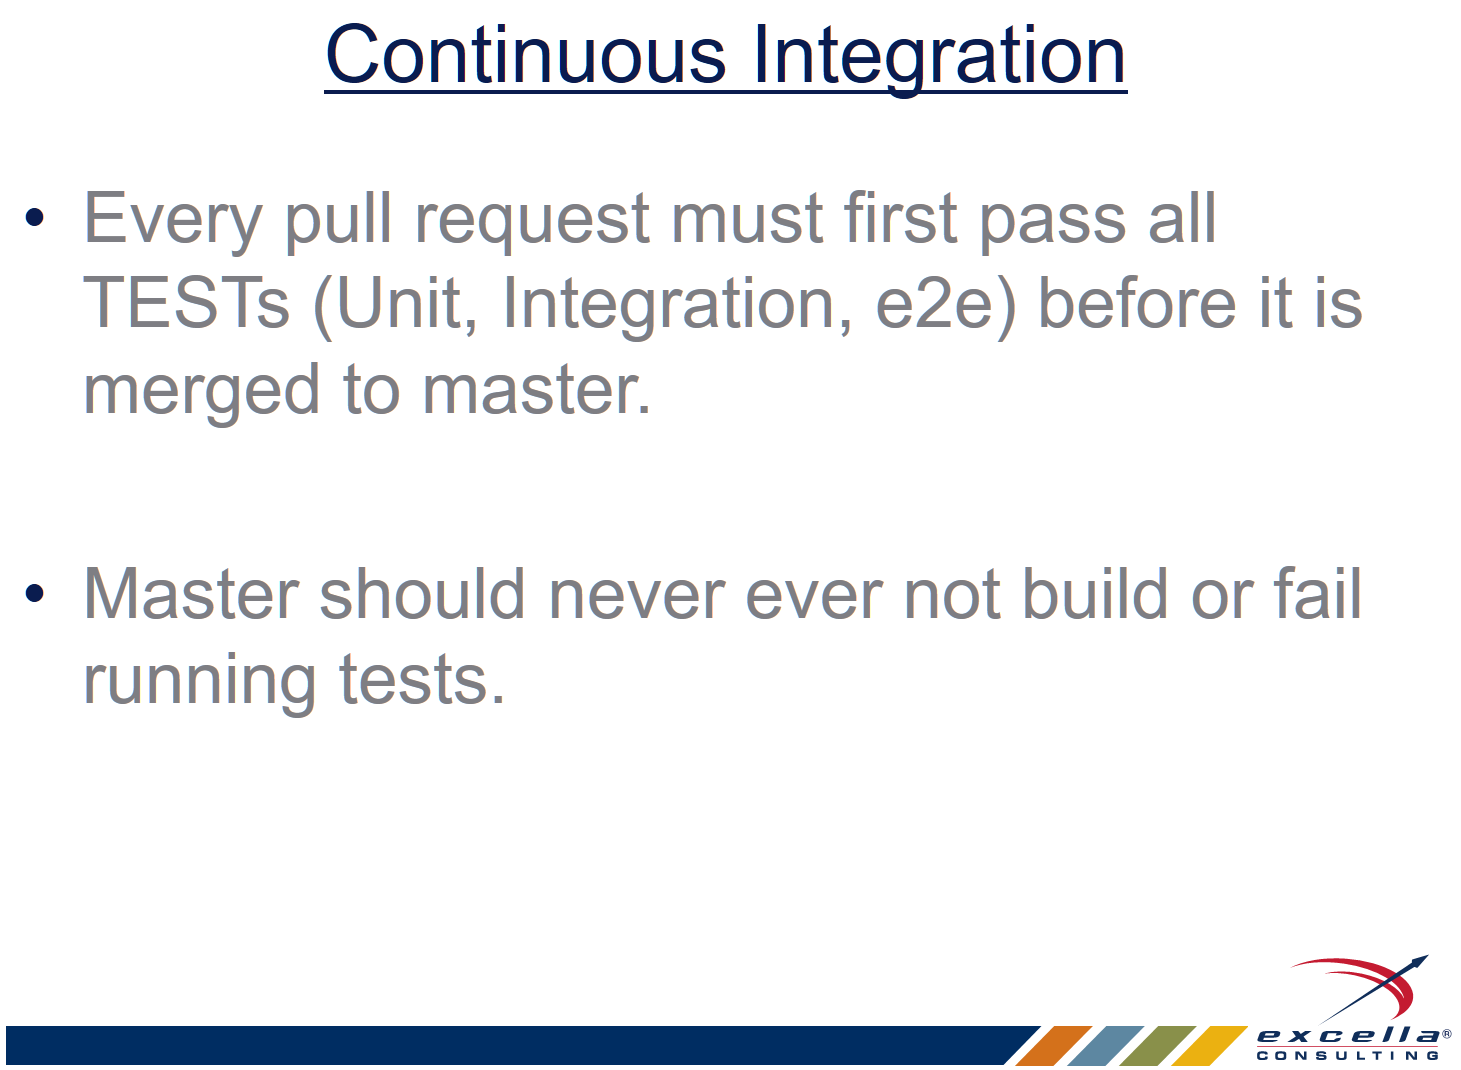
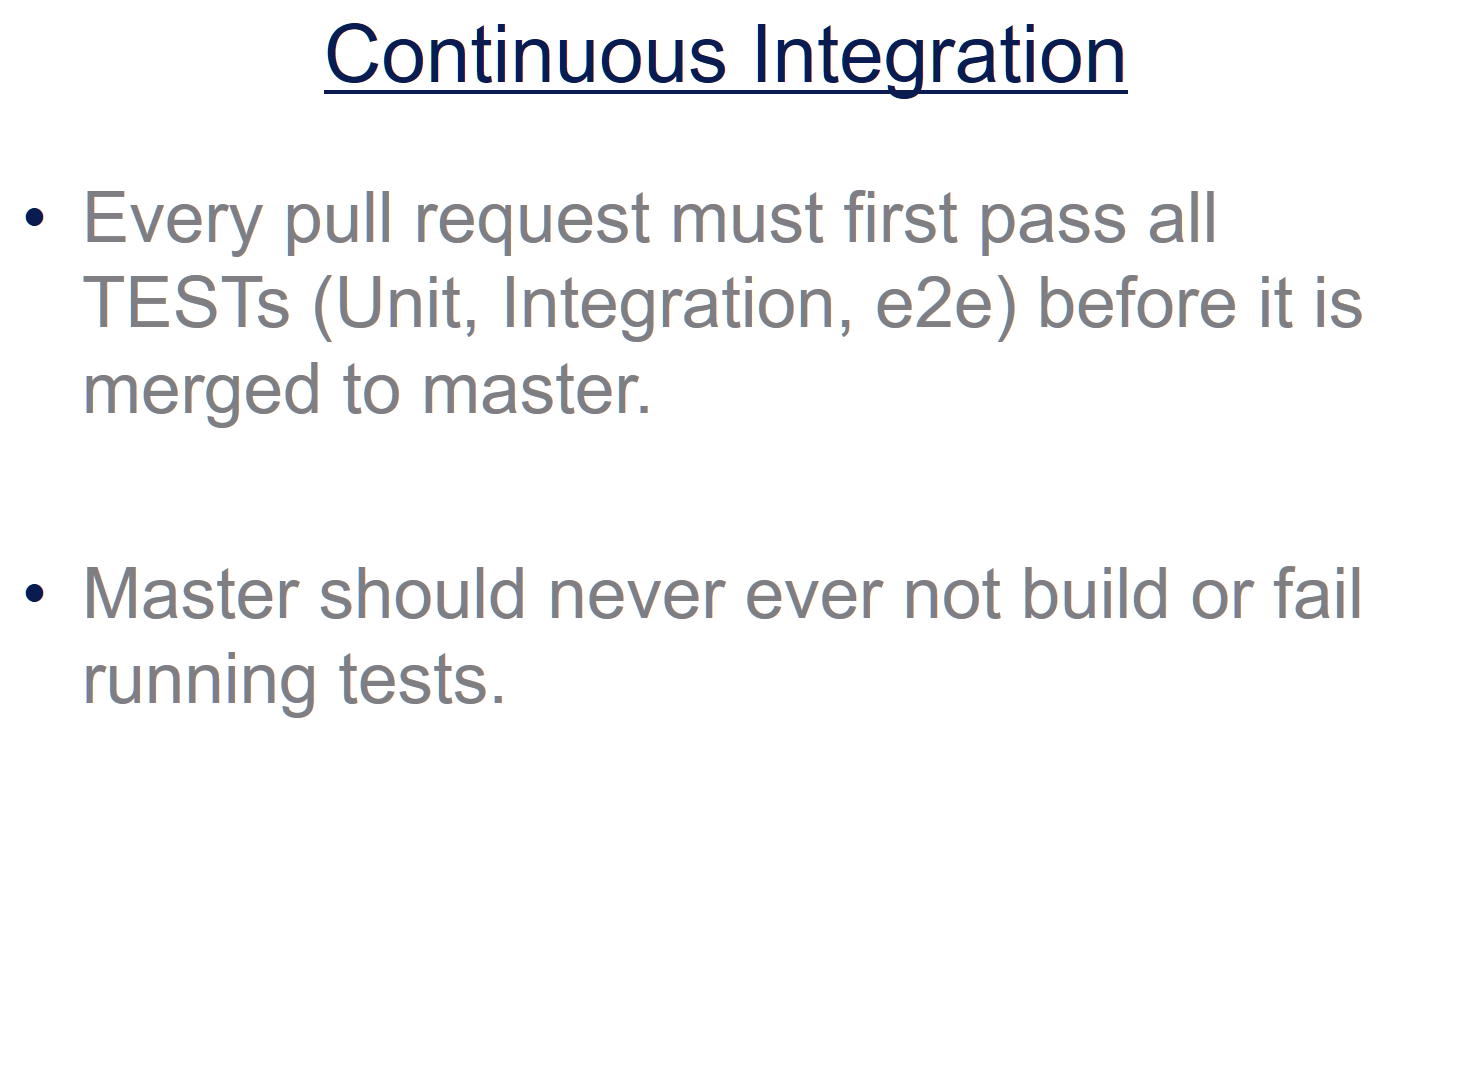
TDD-FailFast: Updated with new brand!

Changed region(s): [[0.0, 0.8944, 0.9856, 1.0]]

diff --git a/TDD-FailFast.html b/TDD-FailFast.html
@@ -20,6 +20,7 @@
 
 	<!-- About the Author -->
 	<section>
+			<img data-src="Images/Excella Horizontal red_black.png" style="margin-left: -150px; left: 0; right: 0; bottom: 0; float:left; position:fixed; top:650px; width:200px; background:lightgrey;border-radius:15px;" />
 		<div class="sl-block" data-block-type="text" style="cursor: pointer; height: auto; min-width: 30px; min-height: 30px; width: 800px; left: 100px; top: 45px;">
 			<div>
 				<h2>Fail Fast with TDD</h3>
@@ -81,29 +82,45 @@ class Author
 		
 	<!-- About Excella -->
 	<section class="stack">
-		<section>
-			<div class="sl-block" data-block-type="image">
-				<div class="sl-block-content" style="border-style: solid; border-width: 1px; border-radius: 8px;">
-					<img data-src="Images/Excella.png">
+			<section>
+				<img data-src="Images/Excella Horizontal red_black.png" style="margin-left: -150px; left: 0; right: 0; bottom: 0; float:left; position:fixed; top:650px; width:200px; background:lightgrey;border-radius:15px;" />
+				<div class="sl-block" data-block-type="image" style="background:grey; opacity:0.9; left: 100px;">
+					<div class="sl-block-content" style="border-style: solid; border-width: 1px; border-radius: 8px; width:775px; opacity:1;">
+						<img data-src="Images/Excella Extension horizontal red_black-01.png">
+					</div>
 				</div>
-			</div>
-			<div class="sl-block" data-block-type="image" style="top:400px;">
-				<div class="sl-block-content" style="border-style: solid; border-width: 1px; border-radius: 8px;">
-					<img data-src="Images/ExcellaBestPlaceToWork.png">
+				<div class="sl-block" data-block-type="image" style="top:400px; opacity:0.9; left: 100px;">
+					<div class="sl-block-content" style="border-style: solid; border-width: 1px; border-radius: 8px;">
+						<img data-src="Images/ExcellaBestPlaceToWork.png">
+					</div>
 				</div>
-			</div>
+			</section>
+			<section>
+				<img data-src="Images/Excella Horizontal red_black.png" style="margin-left: -150px; left: 0; right: 0; bottom: 0; float:left; position:fixed; top:650px; width:200px; background:lightgrey;border-radius:15px;" />
+				<div class="sl-block" data-block-type="image" style="top:100px; left: 80px; opacity:0.9;">
+					<div class="sl-block-content" style="border-style: solid; border-width: 1px; border-radius: 8px;">
+						<img data-src="Images/ExcellaWhatWeDo.png">
+					</div>
+				</div>
+			</section>
 		</section>
-		<section>
-			<div class="sl-block" data-block-type="image" style="top:100px;">
-				<div class="sl-block-content" style="border-style: solid; border-width: 1px; border-radius: 8px;">
-					<img data-src="Images/ExcellaWhatWeDo.png">
+
+		
+	<!-- Background -->
+	<section class="stack">
+			<section>
+				<img data-src="Images/Excella Horizontal red_black.png" style="margin-left: -150px; left: 0; right: 0; bottom: 0; float:left; position:fixed; top:650px; width:200px; background:lightgrey;border-radius:15px;" />
+				<div class="sl-block" data-block-type="image">
+					<div class="sl-block-content" style="border-style: solid; border-width: 1px; border-radius: 8px;">
+						<img data-src="Images/SLDC_Slide.png">
+					</div>
 				</div>
-			</div>
+			</section>
 		</section>
-	</section>
 
 	<!-- Anchor: The First step in solving a problem is knowing there is one -->
 	<section>
+		<img data-src="Images/Excella Horizontal red_black.png" style="margin-left: -150px; left: 0; right: 0; bottom: 0; float:left; position:fixed; top:650px; width:200px; background:lightgrey;border-radius:15px;" />
 		<div class="sl-block" data-block-type="text" style="top: 45px;">
 			<div class="sl-block-content" 
 			style="z-index: 11; line-height: 1.131; font-size: 124%; 
@@ -117,46 +134,38 @@ class Author
 			</div>
 
 		</div>
-		<div class="sl-block" data-block-type="text" style="left: 150px; top: 320px;">
+		<div class="sl-block" data-block-type="text" style="left: 250px; top: 320px;">
 				<div class="sl-block-content" style="font-size: 100%; border-style: solid; border-width: 1px; border-radius: 4px;" data-highlight-theme="obsidian">
 <pre class="javascript">
 <code>
-class MyList {
-  int array[5] = { 1, 2, 3, 4, 5 };
+ class Bird {
 
-  int getValueAtIndex(int indx) {
-	return array[indx];
-  }
+   string chirp() {
+     return "cheep cheep"; 
+   }
+
 }
 </code>
 </pre>
-</div></div>
-	</section>
-
-	<!-- Background -->
-	<section class="stack">
-		<section>
-			<div class="sl-block" data-block-type="image">
-				<div class="sl-block-content" style="border-style: solid; border-width: 1px; border-radius: 8px;">
-					<img data-src="Images/SLDC_Slide.png">
-				</div>
-			</div>
-		</section>
+		</div>
+	</div>
 	</section>
 	
 	<!-- TEST TEST & More TEST -->
 	<section class="stack">
 		<section>
+			<img data-src="Images/Excella Horizontal red_black.png" style="margin-left: -150px; left: 0; right: 0; bottom: 0; float:left; position:fixed; top:650px; width:200px; background:lightgrey;border-radius:15px;" />
 			<div class="sl-block" data-block-type="image">
-				<div class="sl-block-content" style="border-style: solid; border-width: 1px; border-radius: 8px;">
-					<img data-src="Images/TestTestsAndMoreTests.png">
+				<div class="sl-block-content" style="border-style: solid; border-width: 1px; border-radius: 8px; left: 25px;">
+					<img data-src="Images/TestTestsAndMoreTests.png" style="height: 625px; width: 900px;">
 				</div>
 			</div>
 		</section>
 		<section>
+			<img data-src="Images/Excella Horizontal red_black.png" style="margin-left: -150px; left: 0; right: 0; bottom: 0; float:left; position:fixed; top:650px; width:200px; background:lightgrey;border-radius:15px;" />
 			<div class="sl-block" data-block-type="image">
 				<div class="sl-block-content" style="border-style: solid; border-width: 1px; border-radius: 8px;">
-					<img data-src="Images/unit-tests.png">
+					<img data-src="Images/unit-tests.png" style="height: 625px; width: 1000px;">
 				</div>
 			</div>
 			<div class="sl-block" data-block-type="text" style="width: 570px; left: 380px; top: 5px;">
@@ -164,11 +173,9 @@ class MyList {
 	
 <pre class="javascript">
 <code>
-class MyList {
-  int array[5] = { 1, 2, 3, 4, 5 };
-
-  int getValueAtIndex(int indx) {
-    return array[indx];
+class Bird {
+  string chirp() {
+    return "cheep";
   }
 }
 
@@ -176,15 +183,15 @@ class MyList {
 </pre>
 <pre class="javascript">
 <code>
-public void getIndexFromMyList() {
+public void testChirp() {
   // Arrange
-  var myList = MyList();
+  var myBird = Bird();
   
   // Act
-  var result = myList.GetValueAtIndex(7);
+  var result = myBird.chirp();
 
   // Assert
-  assertEquals(7, result);
+  assertEquals("cheep cheep", result);
 }
 </code>
 </pre>
@@ -192,23 +199,18 @@ public void getIndexFromMyList() {
 			</div>
 		</section>
 		<section>
+			<img data-src="Images/Excella Horizontal red_black.png" style="margin-left: -150px; left: 0; right: 0; bottom: 0; float:left; position:fixed; top:650px; width:200px; background:lightgrey;border-radius:15px;" />
 			<div class="sl-block" data-block-type="image">
 				<div class="sl-block-content" style="border-style: solid; border-width: 1px; border-radius: 8px;">
-					<img data-src="Images/integration-tests.png">
+					<img data-src="Images/legacy-code.png" style="height: 625px; width: 1000px;">
 				</div>
 			</div>
 		</section>
 		<section>
+			<img data-src="Images/Excella Horizontal red_black.png" style="margin-left: -150px; left: 0; right: 0; bottom: 0; float:left; position:fixed; top:650px; width:200px; background:lightgrey;border-radius:15px;" />
 			<div class="sl-block" data-block-type="image">
 				<div class="sl-block-content" style="border-style: solid; border-width: 1px; border-radius: 8px;">
-					<img data-src="Images/legacy-code.png">
-				</div>
-			</div>
-		</section>
-		<section>
-			<div class="sl-block" data-block-type="image">
-				<div class="sl-block-content" style="border-style: solid; border-width: 1px; border-radius: 8px;">
-					<img data-src="Images/tdd-slide.png">
+					<img data-src="Images/tdd-slide.png" style="height: 625px; width: 1000px;">
 				</div>
 			</div>
 		</section>
@@ -217,6 +219,7 @@ public void getIndexFromMyList() {
 	<!-- Comic - Test vs non test -->
 	<section class="stack">
 		<section>
+			<img data-src="Images/Excella Horizontal red_black.png" style="margin-left: -150px; left: 0; right: 0; bottom: 0; float:left; position:fixed; top:650px; width:200px; background:lightgrey;border-radius:15px;" />
 			<div class="sl-block" data-block-type="image" style="width: 800px; height: 700px; left: 85px;">
 				<div class="sl-block-content" style="border-style: solid; border-width: 1px; border-radius: 8px;">
 					<img data-src="Images/tdd-vs-ftt-1.png">
@@ -224,21 +227,24 @@ public void getIndexFromMyList() {
 			</div>
 		</section>
 		<section>
-			<div class="sl-block" data-block-type="image">
+			<img data-src="Images/Excella Horizontal red_black.png" style="margin-left: -150px; left: 0; right: 0; bottom: 0; float:left; position:fixed; top:650px; width:200px; background:lightgrey;border-radius:15px;" />
+			<div class="sl-block" data-block-type="image" style="width: 800px; height: 700px; left: 85px;">
 				<div class="sl-block-content" style="border-style: solid; border-width: 1px; border-radius: 8px;">
 					<img data-src="Images/tdd-vs-ftt-2.png">
 				</div>
 			</div>
 		</section>
 		<section>
-			<div class="sl-block" data-block-type="image">
+			<img data-src="Images/Excella Horizontal red_black.png" style="margin-left: -150px; left: 0; right: 0; bottom: 0; float:left; position:fixed; top:650px; width:200px; background:lightgrey;border-radius:15px;" />
+			<div class="sl-block" data-block-type="image" style="width: 800px; height: 700px; left: 85px;">
 				<div class="sl-block-content" style="border-style: solid; border-width: 1px; border-radius: 8px;">
 					<img data-src="Images/tdd-vs-ftt-3.png">
 				</div>
 			</div>
 		</section>
 		<section>
-			<div class="sl-block" data-block-type="image">
+			<img data-src="Images/Excella Horizontal red_black.png" style="margin-left: -150px; left: 0; right: 0; bottom: 0; float:left; position:fixed; top:650px; width:200px; background:lightgrey;border-radius:15px;" />
+			<div class="sl-block" data-block-type="image" style="width: 800px; height: 700px; left: 85px;">
 				<div class="sl-block-content" style="border-style: solid; border-width: 1px; border-radius: 8px;">
 					<img data-src="Images/tdd-vs-ftt-4.png">
 				</div>
@@ -248,6 +254,7 @@ public void getIndexFromMyList() {
 
 	<!-- What it was like before Unit Tests -->
 	<section>
+		<img data-src="Images/Excella Horizontal red_black.png" style="margin-left: -150px; left: 0; right: 0; bottom: 0; float:left; position:fixed; top:650px; width:200px; background:lightgrey;border-radius:15px;" />
 		<div class="sl-block" data-block-type="text" style="cursor: pointer; height: auto; min-width: 30px; min-height: 30px; width: 800px; left: 100px; top: 45px;">
 			<div>
 				<h2>What it was like before Unit Tests</h3>
@@ -264,14 +271,16 @@ public void getIndexFromMyList() {
 	<section class="stack">
 		<section>
 			<section>
+				<img data-src="Images/Excella Horizontal red_black.png" style="margin-left: -150px; left: 0; right: 0; bottom: 0; float:left; position:fixed; top:650px; width:200px; background:lightgrey;border-radius:15px;" />
 				<div class="sl-block" data-block-type="image">
 					<div class="sl-block-content" style="border-style: solid; border-width: 1px; border-radius: 8px;">
-						<img data-src="Images/Continuous-Integration.png">
+						<img data-src="Images/Continuous-Integration.png" style="height: 625px; width: 1000px;">
 					</div>
 				</div>
 			</section>
 		</section>
 		<section>
+			<img data-src="Images/Excella Horizontal red_black.png" style="margin-left: -150px; left: 0; right: 0; bottom: 0; float:left; position:fixed; top:650px; width:200px; background:lightgrey;border-radius:15px;" />
 			<div class="sl-block" data-block-type="image" style="width: 800px; height: 700px; left: 85px;">
 				<div class="sl-block-content" style="border-style: solid; border-width: 1px; border-radius: 8px;">
 					<img data-src="Images/revealJs-github.png">
@@ -284,6 +293,7 @@ public void getIndexFromMyList() {
 			</div>
 		</section>
 		<section>
+			<img data-src="Images/Excella Horizontal red_black.png" style="margin-left: -150px; left: 0; right: 0; bottom: 0; float:left; position:fixed; top:650px; width:200px; background:lightgrey;border-radius:15px;" />
 			<div class="sl-block" data-block-type="image" style="width: 800px; height: 680px; left: 85px;">
 				<div class="sl-block-content" style="border-style: solid; border-width: 1px; border-radius: 8px;">
 					<a href="C:\Dropbox\Work\Excella\Tech Talks\RevealJs Presentations\reveal.js\test\test.html" target="_blank">
@@ -303,6 +313,7 @@ public void getIndexFromMyList() {
 
 	<!-- The End -->
 	<section>
+		<img data-src="Images/Excella Horizontal red_black.png" style="margin-left: -150px; left: 0; right: 0; bottom: 0; float:left; position:fixed; top:650px; width:200px; background:lightgrey;border-radius:15px;" />
 		<div>Questions?</div>
 		<div class="sl-block" data-block-type="image" style="top: 80px; left:320px;">
 			<div class="sl-block-content" style="border-style: solid; border-width: 1px; border-radius: 8px;">

diff --git a/AgileSoftwareDevelopmentPractices.html b/AgileSoftwareDevelopmentPractices.html
@@ -221,7 +221,8 @@ class Author
 				<span class="fragment"><span class="softskills-spacing">Screen shareing software</span></span>
 			</div>
 		</section>		
-  </section>
+	</section>
+	
 				<!-- Best practices -->
 	<!-- What technology to learn first? -->
 	<!-- * Design Patterns -->
